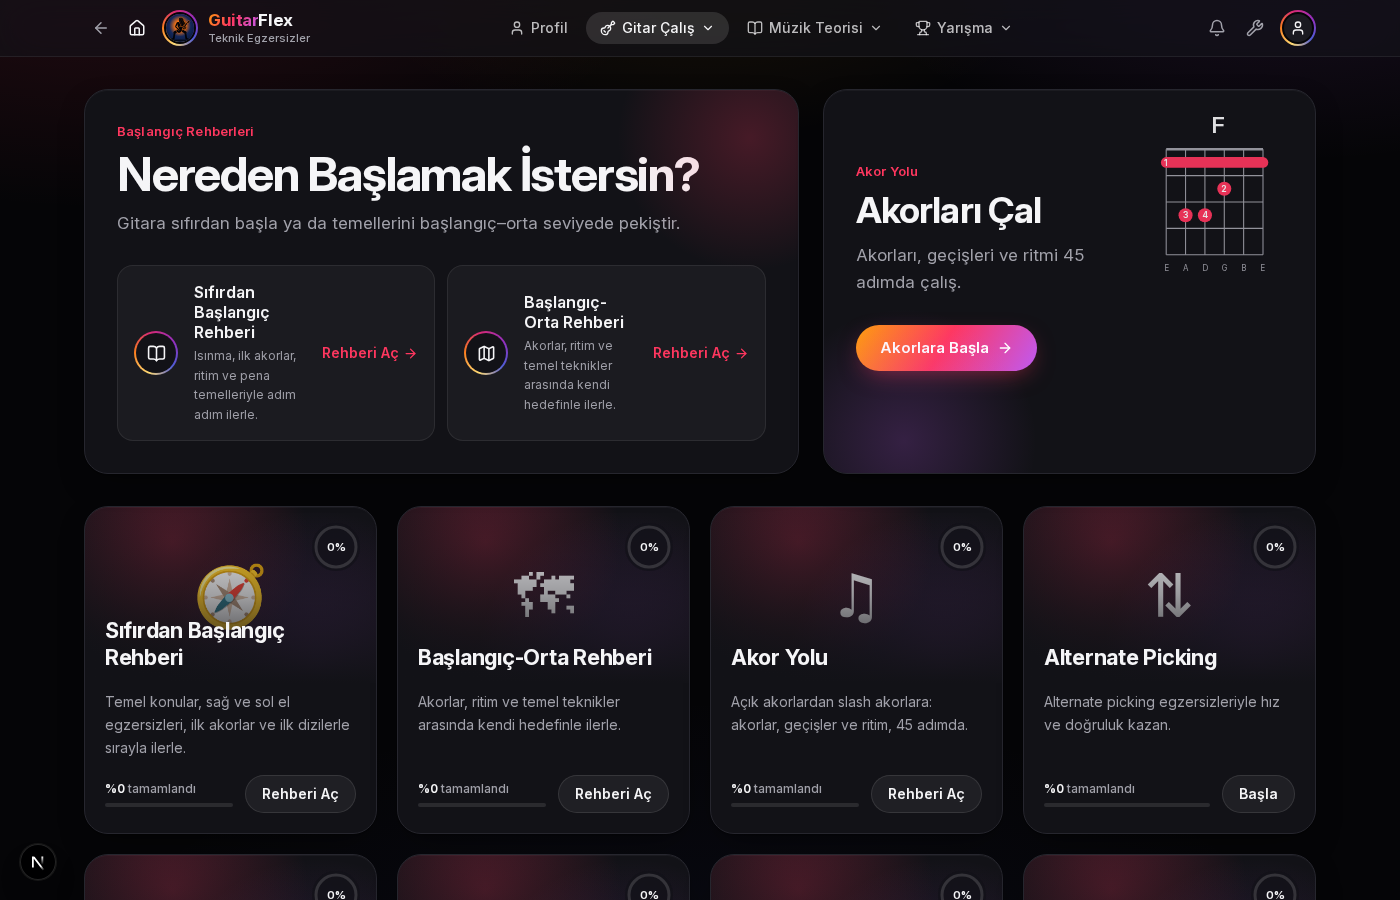
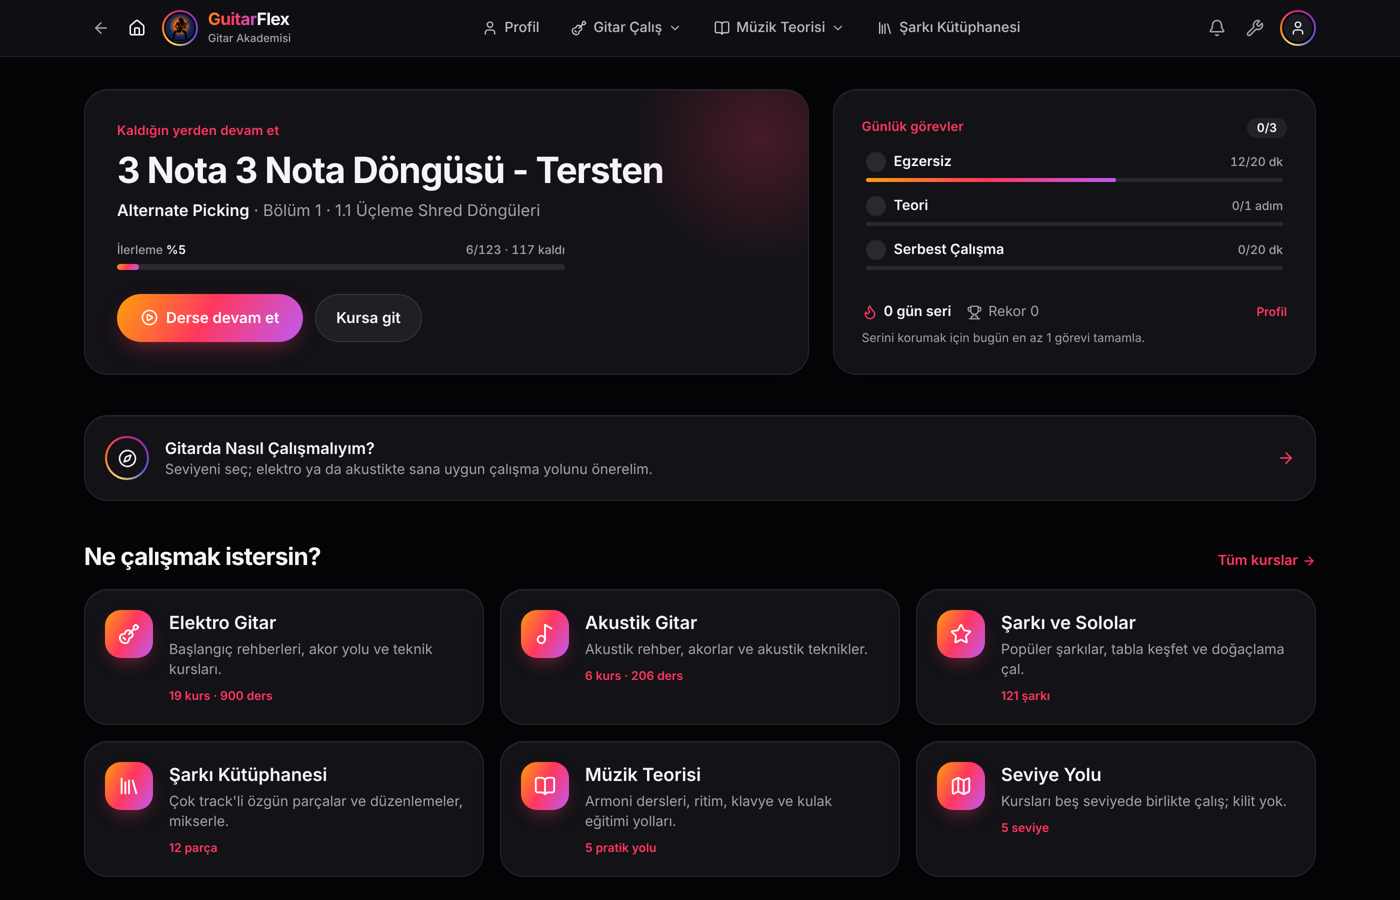
README: yeni site düzeni, kurs kataloğu ve ders gezinmesi
Claude-Session: https://claude.ai/code/session_01M9vcoovcEPR1mPTKaBCYF4

diff --git a/README.md b/README.md
@@ -25,6 +25,8 @@ behind every exercise, and adds a songs & solos library, backing tracks for impr
 | ![Quick Study](docs/ekran/quick-study.png) | ![Transkripsiyon](docs/ekran/transkripsiyon.png) |
 | **Şarkı Kütüphanesi** | **Şarkı sayfası: mikser** |
 | ![Şarkı Kütüphanesi](docs/ekran/kutuphane.png) | ![Şarkı sayfası](docs/ekran/kutuphane-sarki.png) |
+| **Kurs kataloğu** | **Ders listesi çekmecesi** |
+| ![Kurs kataloğu](docs/ekran/katalog.png) | ![Ders listesi](docs/ekran/ders-listesi.png) |
 
 ## Highlights
 
@@ -69,6 +71,7 @@ Masaüstü uygulaması ve web sitesi aynı koddan çalışır.
 
 ### Son güncellemeler
 
+- **Yeni site düzeni**: ana sayfada kaldığın yerden devam, günlük görevler ve seri, kategori kartları, devam ettiğin kurslar, öne çıkanlar ve kütüphaneden parçalar. Yeni Kurs Kataloğu (gruplara, duruma ve ada göre süzme; her kartta bölüm, ders, süre ve ilerleme). Kurs sayfasında kurs seçici, ilerleme şeridi, mevcut bölüm ve Devam et düğmesi, sıradaki ders vurgusu. Ders sayfasında kırıntı, bütün kursu gösteren ders listesi çekmecesi, önceki/sonraki ders (Alt + ←/→). Telefonda hamburger menü ve yapışkan bölüm çubuğu. Eski ana sayfa artık Elektro Gitar sayfası. Hiçbir içerik kilitli değil: kurs bölümlerindeki ve Şarkı Rehberi'ndeki kilitler kalktı. Tabda akor adı, parmak numarası ve kısım yazıları üst üste binmiyor; mikserde bas ve klavye için ayrı simgeler
 - **Şarkı Kütüphanesi** (yeni sekme, Yarışma'nın yerine): kurşun gitar, ritim gitar, bas ve davullu 12 çok enstrümanlı şarkı; pop, klasik, reggae, blues, fingerstyle, country, rock, funk, Türk halk müziği tarzı, bossa nova, metal ve caz, L1'den L5'e. Hepsi GuitarFlex'in özgün parçası ya da kamu malı ezgilerin (Neşe Marşı, Greensleeves) kendi düzenlemesi. Arama, tür, zorluk, ton, tempo ve enstrüman filtreleri; liste ya da kart görünümü. Şarkı sayfasında mikserli oynatıcı, form ve kısımlar, akorlar, teknikler ve çalışma ipuçları. Piyano, org ve yaylılar notayla gösteriliyor
 - **Yarışma bölümü kaldırıldı**
 - **Yeni tab oynatıcı**: ilerleme çubuğunda tıkla-git ve kısım sınırları, ölçü sayacı, hız %25–150, ölçü ya da seçili aralık döngüsü (taba sürükle ya da Shift+tık), kısım düğmeleri (A, A′, B, C) ile tek tıkla kısım döngüsü, kademeli hızlanma (her turda hız artar), metronom her vuruş ya da yalnız ölçü başı, sayım. Ayarlar panelinde Tab / Nota+Tab / Nota, sayfa ya da yatay yerleşim, yakınlaştırma, imleç takibi, çalan notaları gösteren sap paneli ve klavye kısayolları (boşluk, ←/→, L, ↑/↓, M). Çok enstrümanlı tablarda mikser: ses, solo, sessiz, tabı gösterilen enstrüman. Tabın altında ritim (sap, kiriş, üçleme) görünüyor; akor adları pena ve parmak işaretleriyle çakışmıyor. Yeni ses bankası GeneralUser GS (temiz, overdrive, distortion gitar sesi dersin ton bilgisinden seçiliyor; hafif Sonivox seçeneği duruyor)
